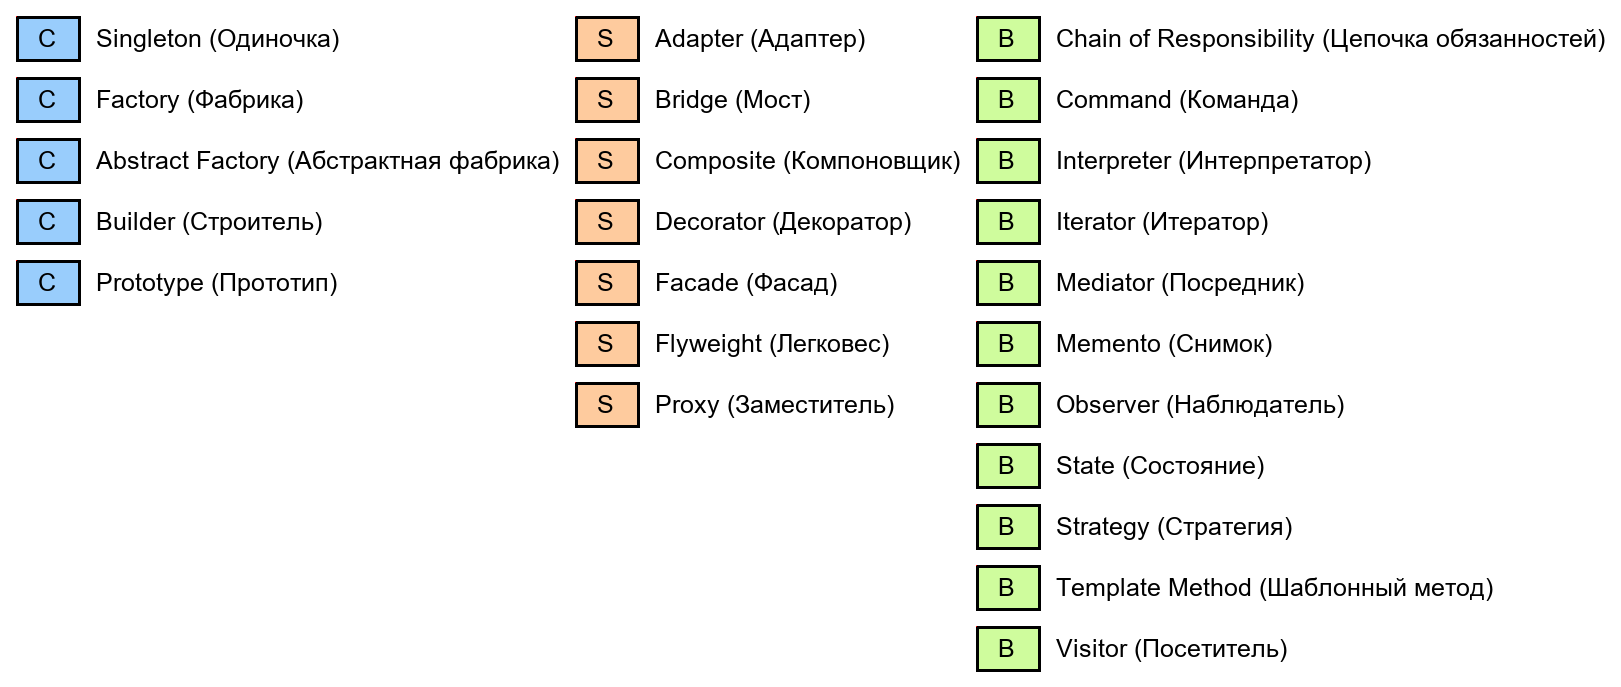
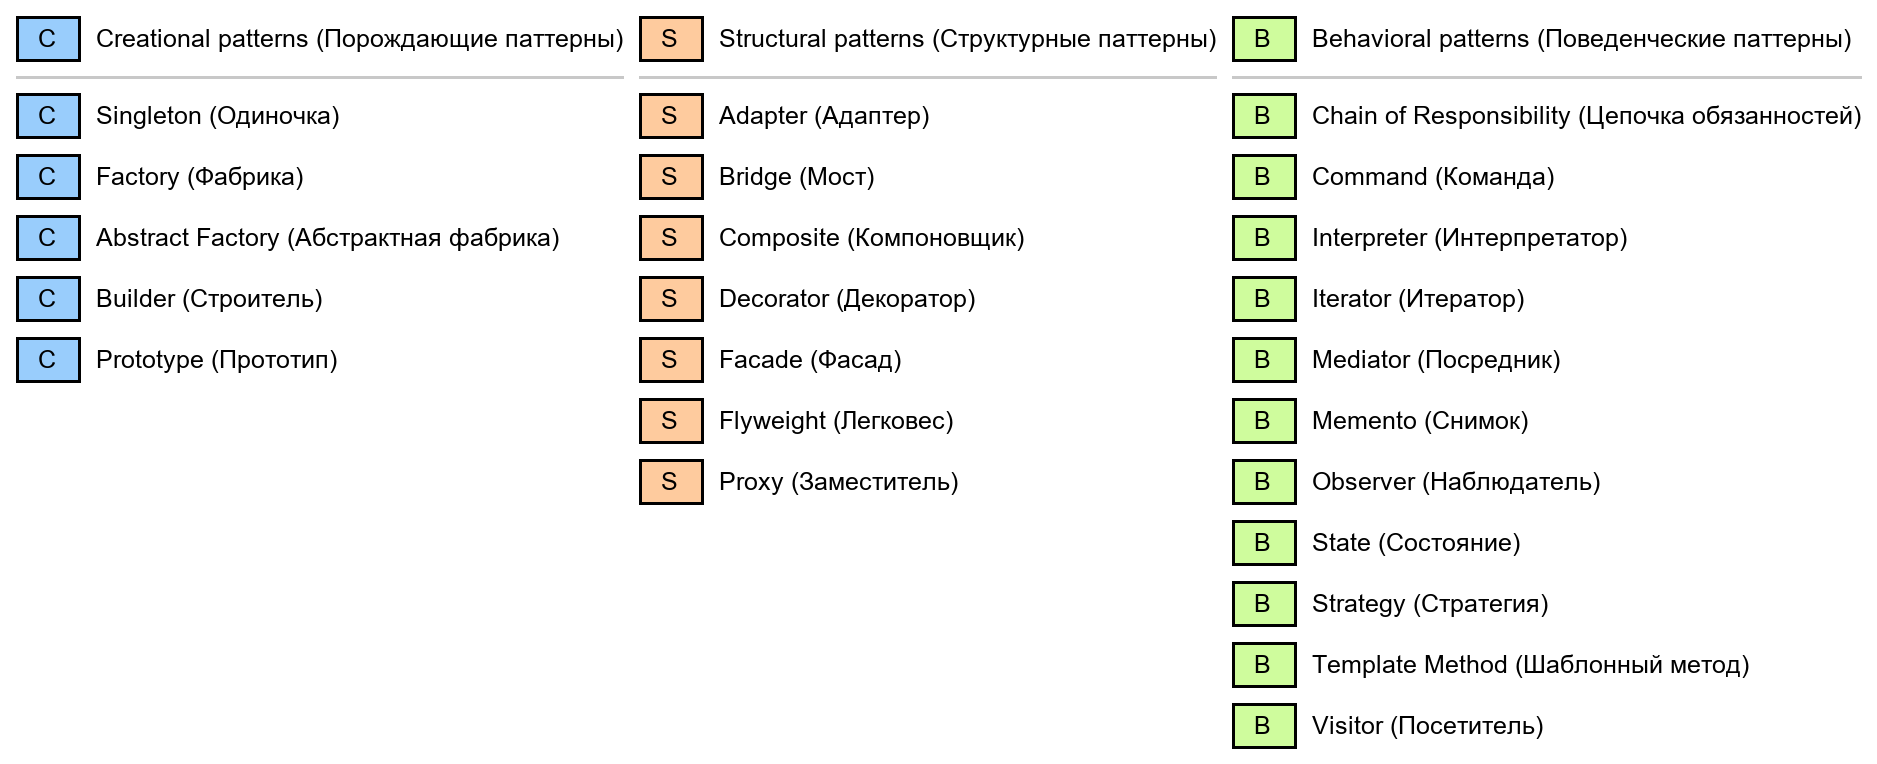
update

Changed region(s): [[0.0, 0.0, 0.987, 0.9782]]

diff --git a/cheatsheet/General/Design patterns (Паттерны проектирования)/index.html b/cheatsheet/General/Design patterns (Паттерны проектирования)/index.html
@@ -1,17 +1,17 @@
-<h1>Паттерны проектирования</h1>
-<h3>Порождающие паттерны <img alt="C" src="General/Design patterns (Паттерны проектирования)/C.png" height="17"></h3>
+<h1>Design patterns (Паттерны проектирования)</h1>
+<p><img alt="patterns.png" src="General/Design patterns (Паттерны проектирования)/patterns.png" /></p>
+<h3>Creational patterns (Порождающие паттерны)</h3>
 <p>Порождающие паттерны проектирования фокусируются на процессах создания объектов.
 Они помогают абстрагировать процесс инстанцирования, что может быть полезным,
 когда конкретный процесс создания объекта должен быть отделён от его использования.
 Это позволяет создавать объекты более гибко и предотвращает жесткую связь между кодом и конкретными классами объектов.</p>
-<h3>Структурные паттерны <img alt="S" src="General/Design patterns (Паттерны проектирования)/S.png" height="17"></h3>
+<h3>Structural patterns (Структурные паттерны)</h3>
 <p>Структурные паттерны проектирования фокусируются на том, как компоненты системы (например, классы и объекты)
 могут быть объединены для создания более крупных и гибких структур.
 Эти паттерны помогают определить отношения между компонентами и обеспечивают гибкость и масштабируемость систем.</p>
-<h3>Поведенческие паттерны <img alt="B" src="General/Design patterns (Паттерны проектирования)/B.png" height="17"></h3>
+<h3>Behavioral patterns (Поведенческие паттерны)</h3>
 <p>Поведенческие паттерны проектирования фокусируются на взаимодействии и распределении обязанностей между объектами и классами.
 Они помогают определить, как объекты должны взаимодействовать друг с другом и как распределять ответственность между ними.</p>
-<p><img alt="patterns.png" src="General/Design patterns (Паттерны проектирования)/patterns.png" /></p>
 <ul>
 <li><a href="https://ru.wikipedia.org/wiki/Design_Patterns">https://ru.wikipedia.org/wiki/Design_Patterns</a><ul>
 <li><a href="https://ru.wikipedia.org/wiki/Порождающие_шаблоны_проектирования">https://ru.wikipedia.org/wiki/Порождающие_шаблоны_проектирования</a></li>
@@ -33,6 +33,7 @@
     <span class="s2">&quot;orange&quot;</span><span class="p">:</span> <span class="p">(</span><span class="mi">254</span><span class="p">,</span> <span class="mi">203</span><span class="p">,</span> <span class="mi">158</span><span class="p">),</span>
     <span class="s2">&quot;blue&quot;</span><span class="p">:</span> <span class="p">(</span><span class="mi">153</span><span class="p">,</span> <span class="mi">205</span><span class="p">,</span> <span class="mi">252</span><span class="p">),</span>
     <span class="s2">&quot;green&quot;</span><span class="p">:</span> <span class="p">(</span><span class="mi">207</span><span class="p">,</span> <span class="mi">252</span><span class="p">,</span> <span class="mi">157</span><span class="p">),</span>
+    <span class="s2">&quot;gray&quot;</span><span class="p">:</span> <span class="p">(</span><span class="mi">200</span><span class="p">,</span> <span class="mi">200</span><span class="p">,</span> <span class="mi">200</span><span class="p">),</span>
 <span class="p">}</span>
 <span class="n">pattern_color</span> <span class="o">=</span> <span class="p">{</span>
     <span class="s2">&quot;C&quot;</span><span class="p">:</span> <span class="n">color</span><span class="p">[</span><span class="s2">&quot;blue&quot;</span><span class="p">],</span>
@@ -41,6 +42,7 @@
 <span class="p">}</span>
 <span class="n">pattern</span> <span class="o">=</span> <span class="p">{</span>
     <span class="s2">&quot;C&quot;</span><span class="p">:</span> <span class="p">[</span>
+        <span class="s2">&quot;Creational patterns (Порождающие паттерны)&quot;</span><span class="p">,</span>
         <span class="s2">&quot;Singleton (Одиночка)&quot;</span><span class="p">,</span>
         <span class="s2">&quot;Factory (Фабрика)&quot;</span><span class="p">,</span>
         <span class="s2">&quot;Abstract Factory (Абстрактная фабрика)&quot;</span><span class="p">,</span>
@@ -48,6 +50,7 @@
         <span class="s2">&quot;Prototype (Прототип)&quot;</span><span class="p">,</span>
     <span class="p">],</span>
     <span class="s2">&quot;S&quot;</span><span class="p">:</span> <span class="p">[</span>
+        <span class="s2">&quot;Structural patterns (Структурные паттерны)&quot;</span><span class="p">,</span>
         <span class="s2">&quot;Adapter (Адаптер)&quot;</span><span class="p">,</span>
         <span class="s2">&quot;Bridge (Мост)&quot;</span><span class="p">,</span>
         <span class="s2">&quot;Composite (Компоновщик)&quot;</span><span class="p">,</span>
@@ -57,6 +60,7 @@
         <span class="s2">&quot;Proxy (Заместитель)&quot;</span><span class="p">,</span>
     <span class="p">],</span>
     <span class="s2">&quot;B&quot;</span><span class="p">:</span> <span class="p">[</span>
+        <span class="s2">&quot;Behavioral patterns (Поведенческие паттерны)&quot;</span><span class="p">,</span>
         <span class="s2">&quot;Chain of Responsibility (Цепочка обязанностей)&quot;</span><span class="p">,</span>
         <span class="s2">&quot;Command (Команда)&quot;</span><span class="p">,</span>
         <span class="s2">&quot;Interpreter (Интерпретатор)&quot;</span><span class="p">,</span>
@@ -85,13 +89,15 @@
 <span class="p">)</span>
 <span class="n">image_y</span> <span class="o">=</span> <span class="n">indent</span> <span class="o">+</span> <span class="nb">max</span><span class="p">(</span>
     <span class="nb">len</span><span class="p">(</span><span class="n">pattern_list</span><span class="p">)</span> <span class="k">for</span> <span class="n">pattern_list</span> <span class="ow">in</span> <span class="n">pattern</span><span class="o">.</span><span class="n">values</span><span class="p">()</span>
-<span class="p">)</span> <span class="o">*</span> <span class="p">(</span><span class="n">rectangle</span><span class="p">[</span><span class="mi">1</span><span class="p">]</span> <span class="o">+</span> <span class="n">indent</span><span class="p">)</span>
+<span class="p">)</span> <span class="o">*</span> <span class="p">(</span><span class="n">rectangle</span><span class="p">[</span><span class="mi">1</span><span class="p">]</span> <span class="o">+</span> <span class="n">indent</span><span class="p">)</span> <span class="o">+</span> <span class="n">indent</span>
 <span class="n">image</span> <span class="o">=</span> <span class="n">Image</span><span class="o">.</span><span class="n">new</span><span class="p">(</span><span class="s2">&quot;RGB&quot;</span><span class="p">,</span> <span class="p">(</span><span class="n">image_x</span><span class="p">,</span> <span class="n">image_y</span><span class="p">),</span> <span class="s2">&quot;#FFFFFF&quot;</span><span class="p">)</span>
 <span class="n">draw</span> <span class="o">=</span> <span class="n">ImageDraw</span><span class="o">.</span><span class="n">Draw</span><span class="p">(</span><span class="n">image</span><span class="p">)</span>
 
+<span class="n">line_y</span> <span class="o">=</span> <span class="n">indent</span><span class="o">+</span><span class="n">rectangle</span><span class="p">[</span><span class="mi">1</span><span class="p">]</span><span class="o">+</span><span class="n">indent</span>
 
 <span class="k">for</span> <span class="n">pattern_type</span><span class="p">,</span> <span class="n">pattern_list</span> <span class="ow">in</span> <span class="n">pattern</span><span class="o">.</span><span class="n">items</span><span class="p">():</span>
-    <span class="k">for</span> <span class="n">pattern</span> <span class="ow">in</span> <span class="n">pattern_list</span><span class="p">:</span>
+    <span class="n">text_x</span> <span class="o">=</span> <span class="n">rectangle</span><span class="p">[</span><span class="mi">0</span><span class="p">]</span> <span class="o">+</span> <span class="n">indent</span> <span class="o">*</span> <span class="mi">2</span> <span class="o">+</span> <span class="n">font</span><span class="o">.</span><span class="n">getbbox</span><span class="p">(</span><span class="nb">max</span><span class="p">(</span><span class="n">pattern_list</span><span class="p">,</span> <span class="n">key</span><span class="o">=</span><span class="nb">len</span><span class="p">))[</span><span class="mi">2</span><span class="p">]</span>
+    <span class="k">for</span> <span class="n">row</span><span class="p">,</span> <span class="n">pattern</span> <span class="ow">in</span> <span class="nb">enumerate</span><span class="p">(</span><span class="n">pattern_list</span><span class="p">):</span>
         <span class="n">draw</span><span class="o">.</span><span class="n">rectangle</span><span class="p">(</span>
             <span class="p">(</span><span class="n">now_x</span><span class="p">,</span> <span class="n">now_y</span><span class="p">,</span> <span class="n">now_x</span> <span class="o">+</span> <span class="n">rectangle</span><span class="p">[</span><span class="mi">0</span><span class="p">],</span> <span class="n">now_y</span> <span class="o">+</span> <span class="n">rectangle</span><span class="p">[</span><span class="mi">1</span><span class="p">]),</span>
             <span class="n">pattern_color</span><span class="p">[</span><span class="n">pattern_type</span><span class="p">],</span>
@@ -110,11 +116,18 @@
             <span class="n">fill</span><span class="o">=</span><span class="s2">&quot;#000000&quot;</span><span class="p">,</span>
             <span class="n">font</span><span class="o">=</span><span class="n">font</span><span class="p">,</span>
         <span class="p">)</span>
-        <span class="n">draw</span><span class="o">.</span><span class="n">point</span><span class="p">((</span><span class="n">now_x</span><span class="p">,</span> <span class="n">now_y</span><span class="p">),</span> <span class="s2">&quot;#FF0000&quot;</span><span class="p">)</span>
+        <span class="c1"># draw.point((now_x, now_y), &quot;#FF0000&quot;)</span>
         <span class="n">now_y</span> <span class="o">+=</span> <span class="n">rectangle</span><span class="p">[</span><span class="mi">1</span><span class="p">]</span> <span class="o">+</span> <span class="n">indent</span>
+        <span class="k">if</span> <span class="n">row</span> <span class="o">==</span> <span class="mi">0</span><span class="p">:</span>
+            <span class="n">now_y</span> <span class="o">+=</span> <span class="n">indent</span>
+            <span class="n">draw</span><span class="o">.</span><span class="n">line</span><span class="p">(</span>
+                <span class="p">((</span><span class="n">now_x</span><span class="p">,</span> <span class="n">line_y</span><span class="p">),</span> <span class="p">(</span><span class="n">now_x</span><span class="o">+</span><span class="n">text_x</span><span class="o">-</span><span class="n">indent</span><span class="p">,</span> <span class="n">line_y</span><span class="p">)),</span>
+                <span class="n">fill</span><span class="o">=</span><span class="n">color</span><span class="p">[</span><span class="s2">&quot;gray&quot;</span><span class="p">],</span>
+                <span class="n">width</span><span class="o">=</span><span class="n">border</span><span class="p">,</span>
+            <span class="p">)</span>
 
     <span class="n">now_y</span> <span class="o">=</span> <span class="n">indent</span>
-    <span class="n">now_x</span> <span class="o">+=</span> <span class="n">rectangle</span><span class="p">[</span><span class="mi">0</span><span class="p">]</span> <span class="o">+</span> <span class="n">indent</span> <span class="o">*</span> <span class="mi">2</span> <span class="o">+</span> <span class="n">font</span><span class="o">.</span><span class="n">getbbox</span><span class="p">(</span><span class="nb">max</span><span class="p">(</span><span class="n">pattern_list</span><span class="p">,</span> <span class="n">key</span><span class="o">=</span><span class="nb">len</span><span class="p">))[</span><span class="mi">2</span><span class="p">]</span>
+    <span class="n">now_x</span> <span class="o">+=</span> <span class="n">text_x</span>
 
 
 <span class="n">image</span><span class="o">.</span><span class="n">save</span><span class="p">(</span><span class="s2">&quot;patterns.png&quot;</span><span class="p">,</span> <span class="nb">format</span><span class="o">=</span><span class="s2">&quot;PNG&quot;</span><span class="p">)</span>

diff --git a/cheatsheet/General/Design patterns (Паттерны проектирования)/index.md b/cheatsheet/General/Design patterns (Паттерны проектирования)/index.md
@@ -1,6 +1,8 @@
-# Паттерны проектирования
+# Design patterns (Паттерны проектирования)
 
-### Порождающие паттерны <img alt="C" src="General/Design patterns (Паттерны проектирования)/C.png" height="17">
+![patterns.png](General/Design patterns (Паттерны проектирования)/patterns.png)
+
+### Creational patterns (Порождающие паттерны)
 
 Порождающие паттерны проектирования фокусируются на процессах создания объектов.
 Они помогают абстрагировать процесс инстанцирования, что может быть полезным,
@@ -8,20 +10,17 @@
 Это позволяет создавать объекты более гибко и предотвращает жесткую связь между кодом и конкретными классами объектов.
 
 
-### Структурные паттерны <img alt="S" src="General/Design patterns (Паттерны проектирования)/S.png" height="17">
+### Structural patterns (Структурные паттерны)
 
 Структурные паттерны проектирования фокусируются на том, как компоненты системы (например, классы и объекты)
 могут быть объединены для создания более крупных и гибких структур.
 Эти паттерны помогают определить отношения между компонентами и обеспечивают гибкость и масштабируемость систем.
 
 
-### Поведенческие паттерны <img alt="B" src="General/Design patterns (Паттерны проектирования)/B.png" height="17">
+### Behavioral patterns (Поведенческие паттерны)
 
 Поведенческие паттерны проектирования фокусируются на взаимодействии и распределении обязанностей между объектами и классами.
 Они помогают определить, как объекты должны взаимодействовать друг с другом и как распределять ответственность между ними.
-
-
-![patterns.png](General/Design patterns (Паттерны проектирования)/patterns.png)
 
 - [https://ru.wikipedia.org/wiki/Design_Patterns](https://ru.wikipedia.org/wiki/Design_Patterns)
     - [https://ru.wikipedia.org/wiki/Порождающие_шаблоны_проектирования](https://ru.wikipedia.org/wiki/Порождающие_шаблоны_проектирования)
@@ -45,6 +44,7 @@ color = {
     "orange": (254, 203, 158),
     "blue": (153, 205, 252),
     "green": (207, 252, 157),
+    "gray": (200, 200, 200),
 }
 pattern_color = {
     "C": color["blue"],
@@ -53,6 +53,7 @@ pattern_color = {
 }
 pattern = {
     "C": [
+        "Creational patterns (Порождающие паттерны)",
         "Singleton (Одиночка)",
         "Factory (Фабрика)",
         "Abstract Factory (Абстрактная фабрика)",
@@ -60,6 +61,7 @@ pattern = {
         "Prototype (Прототип)",
     ],
     "S": [
+        "Structural patterns (Структурные паттерны)",
         "Adapter (Адаптер)",
         "Bridge (Мост)",
         "Composite (Компоновщик)",
@@ -69,6 +71,7 @@ pattern = {
         "Proxy (Заместитель)",
     ],
     "B": [
+        "Behavioral patterns (Поведенческие паттерны)",
         "Chain of Responsibility (Цепочка обязанностей)",
         "Command (Команда)",
         "Interpreter (Интерпретатор)",
@@ -97,13 +100,15 @@ image_x = indent + sum(
 )
 image_y = indent + max(
     len(pattern_list) for pattern_list in pattern.values()
-) * (rectangle[1] + indent)
+) * (rectangle[1] + indent) + indent
 image = Image.new("RGB", (image_x, image_y), "#FFFFFF")
 draw = ImageDraw.Draw(image)
 
+line_y = indent+rectangle[1]+indent
 
 for pattern_type, pattern_list in pattern.items():
-    for pattern in pattern_list:
+    text_x = rectangle[0] + indent * 2 + font.getbbox(max(pattern_list, key=len))[2]
+    for row, pattern in enumerate(pattern_list):
         draw.rectangle(
             (now_x, now_y, now_x + rectangle[0], now_y + rectangle[1]),
             pattern_color[pattern_type],
@@ -122,11 +127,18 @@ for pattern_type, pattern_list in pattern.items():
             fill="#000000",
             font=font,
         )
-        draw.point((now_x, now_y), "#FF0000")
+        # draw.point((now_x, now_y), "#FF0000")
         now_y += rectangle[1] + indent
+        if row == 0:
+            now_y += indent
+            draw.line(
+                ((now_x, line_y), (now_x+text_x-indent, line_y)),
+                fill=color["gray"],
+                width=border,
+            )
 
     now_y = indent
-    now_x += rectangle[0] + indent * 2 + font.getbbox(max(pattern_list, key=len))[2]
+    now_x += text_x
 
 
 image.save("patterns.png", format="PNG")
